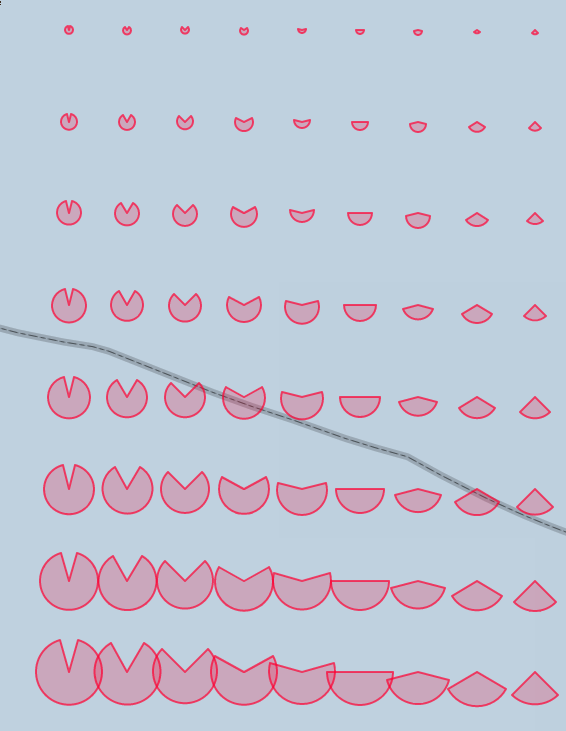
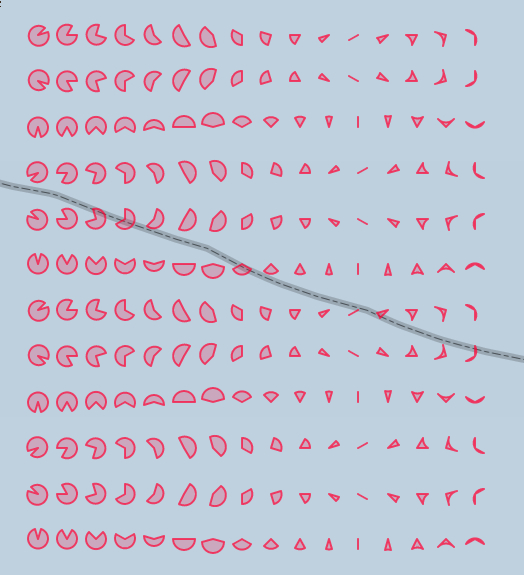
Fix example and screenschot to show the problem with startAngle > stopAngle.

diff --git a/example-semicircle.html b/example-semicircle.html
@@ -14,21 +14,21 @@
 	<script>
 		var map = L.map('map');
 
-		var r;
+		var rot;
 		for(var i=1; i <=16; i++){
-			for(var j=1; j<=8; j++){
-				r = j*100;
-				L.circle([50.70-(j*0.02), -0.18 + i*0.02], r, {
+			for(var j=1; j<=12; j++){
+				rot = j * 60;
+				L.circle([50.70-(j*0.02), -0.18 + i*0.02], 500, {
 					color: '#f03',
 					opacity: 0.7,
 					weight: 2,
-					startAngle: 15 * i,
-					stopAngle: 360 - (15 * i)
+					startAngle: rot + 15 * i,
+					stopAngle: rot + 360 - (15 * i)
 				}).addTo(map);
 			}
 		}
 
-		map.setView([50.60, -0.0], 12);
+		map.setView([50.60, -0.0], 11);
 
 		var cloudmade = L.tileLayer('http://{s}.tile.cloudmade.com/{key}/{styleId}/256/{z}/{x}/{y}.png', {
 			attribution: 'Map data &copy; 2011 OpenStreetMap contributors, Imagery &copy; 2011 CloudMade',
